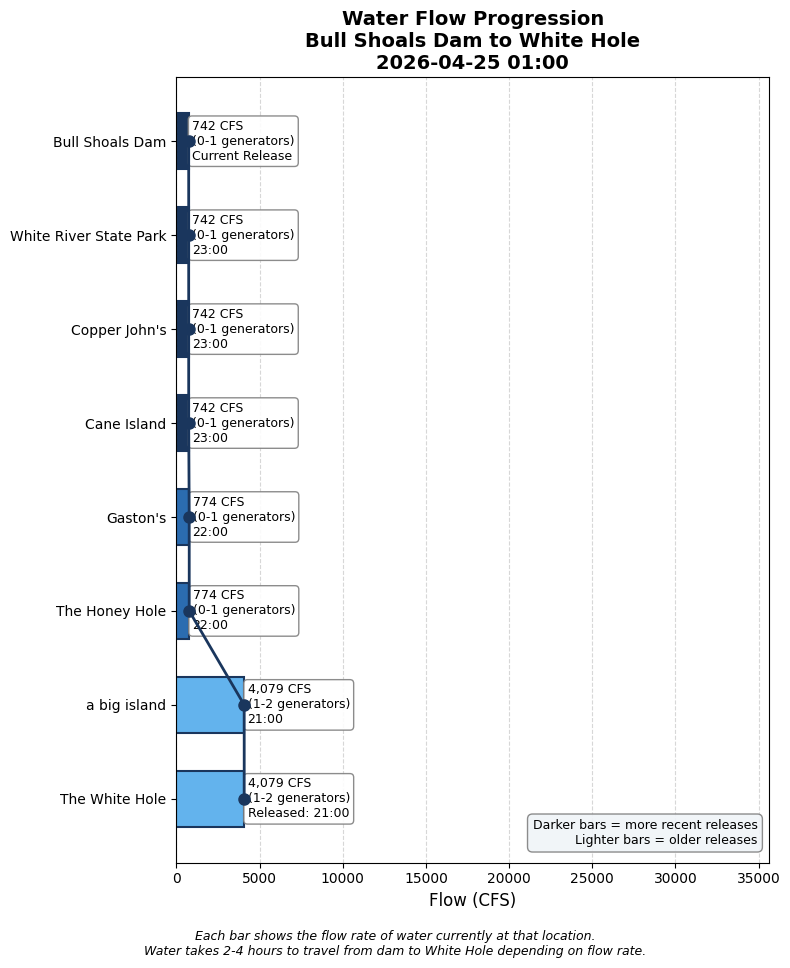
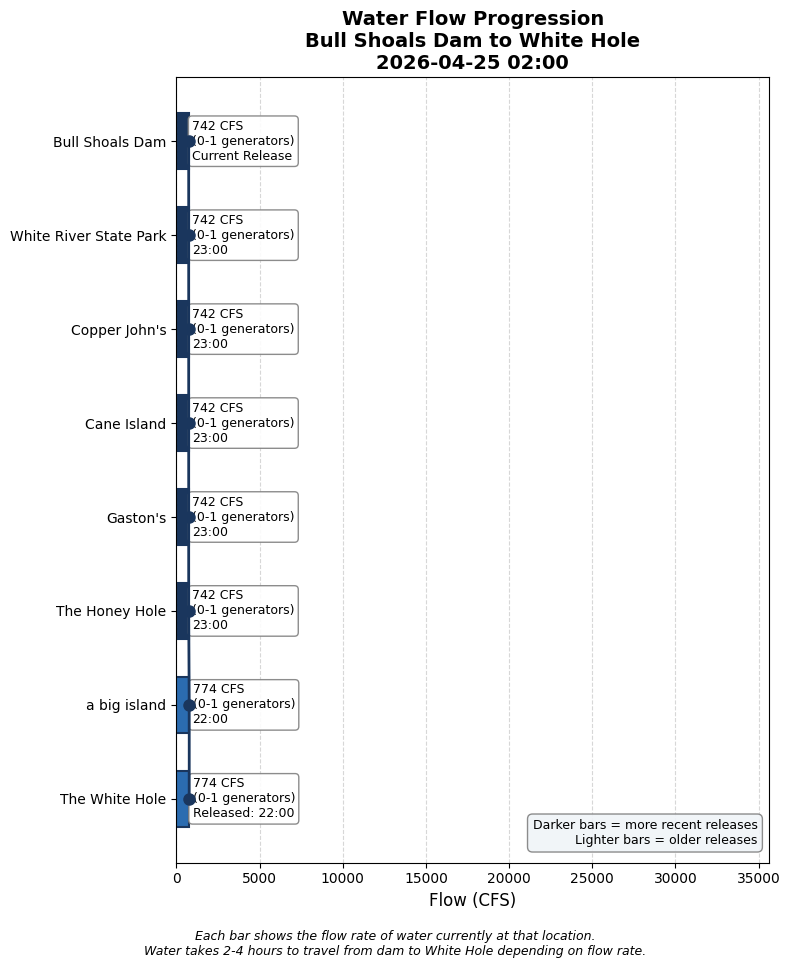
Update water conditions 2026-04-25 02:00

Changed region(s): [[0.2127, 0.4959, 0.4557, 0.8678]]

diff --git a/white_hole_conditions.html b/white_hole_conditions.html
@@ -3,7 +3,7 @@
 <head>
     <meta charset="UTF-8">
     <meta name="viewport" content="width=device-width, initial-scale=1.0">
-    <title>White Hole Conditions - 2026-04-25 01:00</title>
+    <title>White Hole Conditions - 2026-04-25 02:00</title>
     <style>
         body {
             font-family: -apple-system, BlinkMacSystemFont, 'Segoe UI', Roboto, sans-serif;
@@ -23,7 +23,7 @@
             margin-bottom: 20px;
         }
         .headline-banner {
-            background-color: #2b6cb0;
+            background-color: #319795;
             color: white;
             border-radius: 12px;
             padding: 25px;
@@ -73,12 +73,12 @@
             font-weight: 500;
         }
         .pill.wading {
-            background-color: #fef3c7;
-            color: #92400e;
+            background-color: #d1fae5;
+            color: #065f46;
         }
         .pill.boating {
-            background-color: #dbeafe;
-            color: #1e40af;
+            background-color: #fef3c7;
+            color: #92400e;
         }
         .timeline-box {
             background-color: white;
@@ -148,23 +148,23 @@
 </head>
 <body>
     <h1>White Hole Current Conditions</h1>
-    <p class="subtitle">Saturday, April 25, 2026 at 01:00 AM</p>
+    <p class="subtitle">Saturday, April 25, 2026 at 02:00 AM</p>
 
     <!-- HEADLINE BANNER -->
     <div class="headline-banner">
-        <div class="main-status">⚠ MARGINAL WADING — Use caution</div>
-        <div class="forecast-status">📉 FALLING WATER — Conditions improving</div>
+        <div class="main-status">✅ GOOD WADING — Conditions favorable</div>
+        <div class="forecast-status">➡ STABLE CONDITIONS expected</div>
         <div class="forecast-status" style="margin-top: 5px; opacity: 0.9;">📅 HIGH WATER SCHEDULED — ~5:54 PM</div>
     </div>
 
     <!-- CURRENT CONDITIONS -->
     <div class="current-conditions">
         <h3>Current Conditions at White Hole</h3>
-        <div class="flow-display">4,079 CFS</div>
-        <div class="generator-display">Equivalent to 1-2 generators</div>
+        <div class="flow-display">774 CFS</div>
+        <div class="generator-display">Equivalent to 0-1 generators</div>
         <div class="condition-pills">
-            <span class="pill wading">Still Wadable</span>
-            <span class="pill boating">Ideal Boating</span>
+            <span class="pill wading">Excellent Wading</span>
+            <span class="pill boating">Low For Boating</span>
         </div>
         <a href="https://www.youtube.com/channel/UCAXhb9nFnsfu367AthDrgIA/live" target="_blank" class="webcam-link" style="margin-top: 15px;">
             📹 View Live Webcam
@@ -188,7 +188,15 @@
                     
                 <tr><td colspan="3" style="padding: 8px 10px; font-size: 0.8em; font-weight: bold; color: #6b46c1; text-transform: uppercase; letter-spacing: 0.05em; background-color: #f3e8ff;">Scheduled (SWPA forecast)</td></tr>
                 
-                    <tr style="background-color: #faf5ff; border-left: 4px solid #38a169;">
+                    <tr style="background-color: #faf5ff; ">
+                        <td style="padding: 10px; font-weight: bold;">5 AM</td>
+                        <td style="padding: 10px;">723 CFS<br><small style="color: #666;">(0-1 generators: 473 generation + 250 min flow)</small></td>
+                        <td style="padding: 10px;">~8:44 AM
+                            <span style="display: inline-block; margin-left: 6px; padding: 2px 8px; border-radius: 12px; font-size: 0.8em; background-color: #d1fae5; color: #065f46;">Excellent Wading</span>
+                        </td>
+                    </tr>
+                
+                    <tr style="background-color: #faf5ff; ">
                         <td style="padding: 10px; font-weight: bold;">4 AM</td>
                         <td style="padding: 10px;">723 CFS<br><small style="color: #666;">(0-1 generators: 473 generation + 250 min flow)</small></td>
                         <td style="padding: 10px;">~7:44 AM
@@ -196,7 +204,7 @@
                         </td>
                     </tr>
                 
-                    <tr style="background-color: #faf5ff; border-left: 4px solid #38a169;">
+                    <tr style="background-color: #faf5ff; ">
                         <td style="padding: 10px; font-weight: bold;">3 AM</td>
                         <td style="padding: 10px;">723 CFS<br><small style="color: #666;">(0-1 generators: 473 generation + 250 min flow)</small></td>
                         <td style="padding: 10px;">~6:44 AM
@@ -204,18 +212,10 @@
                         </td>
                     </tr>
                 
-                    <tr style="background-color: #faf5ff; border-left: 4px solid #38a169;">
+                    <tr style="background-color: #faf5ff; ">
                         <td style="padding: 10px; font-weight: bold;">2 AM</td>
                         <td style="padding: 10px;">723 CFS<br><small style="color: #666;">(0-1 generators: 473 generation + 250 min flow)</small></td>
                         <td style="padding: 10px;">~5:44 AM
-                            <span style="display: inline-block; margin-left: 6px; padding: 2px 8px; border-radius: 12px; font-size: 0.8em; background-color: #d1fae5; color: #065f46;">Excellent Wading</span>
-                        </td>
-                    </tr>
-                
-                    <tr style="background-color: #faf5ff; border-left: 4px solid #38a169;">
-                        <td style="padding: 10px; font-weight: bold;">1 AM</td>
-                        <td style="padding: 10px;">723 CFS<br><small style="color: #666;">(0-1 generators: 473 generation + 250 min flow)</small></td>
-                        <td style="padding: 10px;">~4:44 AM
                             <span style="display: inline-block; margin-left: 6px; padding: 2px 8px; border-radius: 12px; font-size: 0.8em; background-color: #d1fae5; color: #065f46;">Excellent Wading</span>
                         </td>
                     </tr>
@@ -227,18 +227,12 @@
                     <tr style="background-color: #ebf8ff;">
                         <td style="padding: 10px; font-weight: bold;">11:00 PM</td>
                         <td style="padding: 10px;">742 CFS<br><small style="color: #666;">(0-1 generators)</small></td>
-                        <td style="padding: 10px;"><span style="color: #2b6cb0;">→ Arrives ~2:44 AM (in 103 min)</span></td>
-                    </tr>
-                
-                    <tr style="background-color: #ebf8ff;">
-                        <td style="padding: 10px; font-weight: bold;">10:00 PM</td>
-                        <td style="padding: 10px;">774 CFS<br><small style="color: #666;">(0-1 generators)</small></td>
-                        <td style="padding: 10px;"><span style="color: #2b6cb0;">→ Arrives ~1:44 AM (in 43 min)</span></td>
+                        <td style="padding: 10px;"><span style="color: #2b6cb0;">→ Arrives ~2:44 AM (in 43 min)</span></td>
                     </tr>
                 
                     <tr style="background-color: #e6fffa;">
-                        <td style="padding: 10px; font-weight: bold;">9:00 PM</td>
-                        <td style="padding: 10px;">4,079 CFS<br><small style="color: #666;">(1-2 generators)</small></td>
+                        <td style="padding: 10px; font-weight: bold;">10:00 PM</td>
+                        <td style="padding: 10px;">774 CFS<br><small style="color: #666;">(0-1 generators)</small></td>
                         <td style="padding: 10px;"><span style="color: #319795; font-weight: bold;">← AT WHITE HOLE NOW</span></td>
                     </tr>
                 
@@ -275,8 +269,8 @@
         <div style="padding: 15px;">
             <ul>
                 <li>Latest dam reading: 742 CFS at 2026-04-24 23:00</li>
-                <li>Travel time to White Hole: 3.5 hours at current flow</li>
-                <li>White Hole conditions based on dam reading from: 2026-04-24 21:00</li>
+                <li>Travel time to White Hole: 3.7 hours at current flow</li>
+                <li>White Hole conditions based on dam reading from: 2026-04-24 22:00</li>
             </ul>
         </div>
     </details>
@@ -361,13 +355,6 @@
                     <td style="padding: 8px; text-align: right;">3.0</td>
                 </tr>
                 
-                <tr style="border-bottom: 1px solid #eee;">
-                    <td style="padding: 8px;">2026-04-24 14:00</td>
-                    <td style="padding: 8px; text-align: right;">5294</td>
-                    <td style="padding: 8px; text-align: right;">1.6</td>
-                    <td style="padding: 8px; text-align: right;">3.2</td>
-                </tr>
-                
                     </tbody>
                 </table>
             </div>
@@ -375,7 +362,7 @@
         
 
     <div class="timestamp">
-        Data retrieved and processed on 2026-04-25 01:00:07
+        Data retrieved and processed on 2026-04-25 02:00:08
     </div>
 </body>
 </html>
